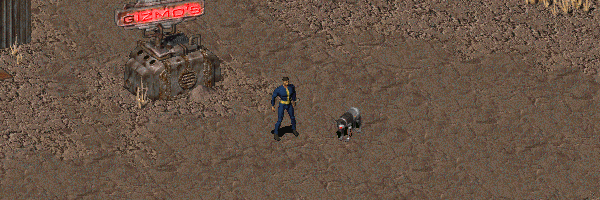
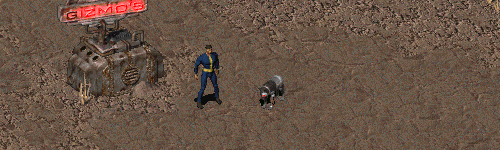
- Resized image.

diff --git a/Fallout2/Fallout1in2/mods/fo1_robodog/Readme.md b/Fallout2/Fallout1in2/mods/fo1_robodog/Readme.md
@@ -1,4 +1,4 @@
-<p align="center"><img src="fo1_robodog.png" alt="Fallout 1 Robodog" height="200px"></p>
+<p align="center"><img src="fo1_robodog.png" alt="Fallout 1 Robodog" height="150px"></p>
 
 # Fallout 1 Robodog
 
